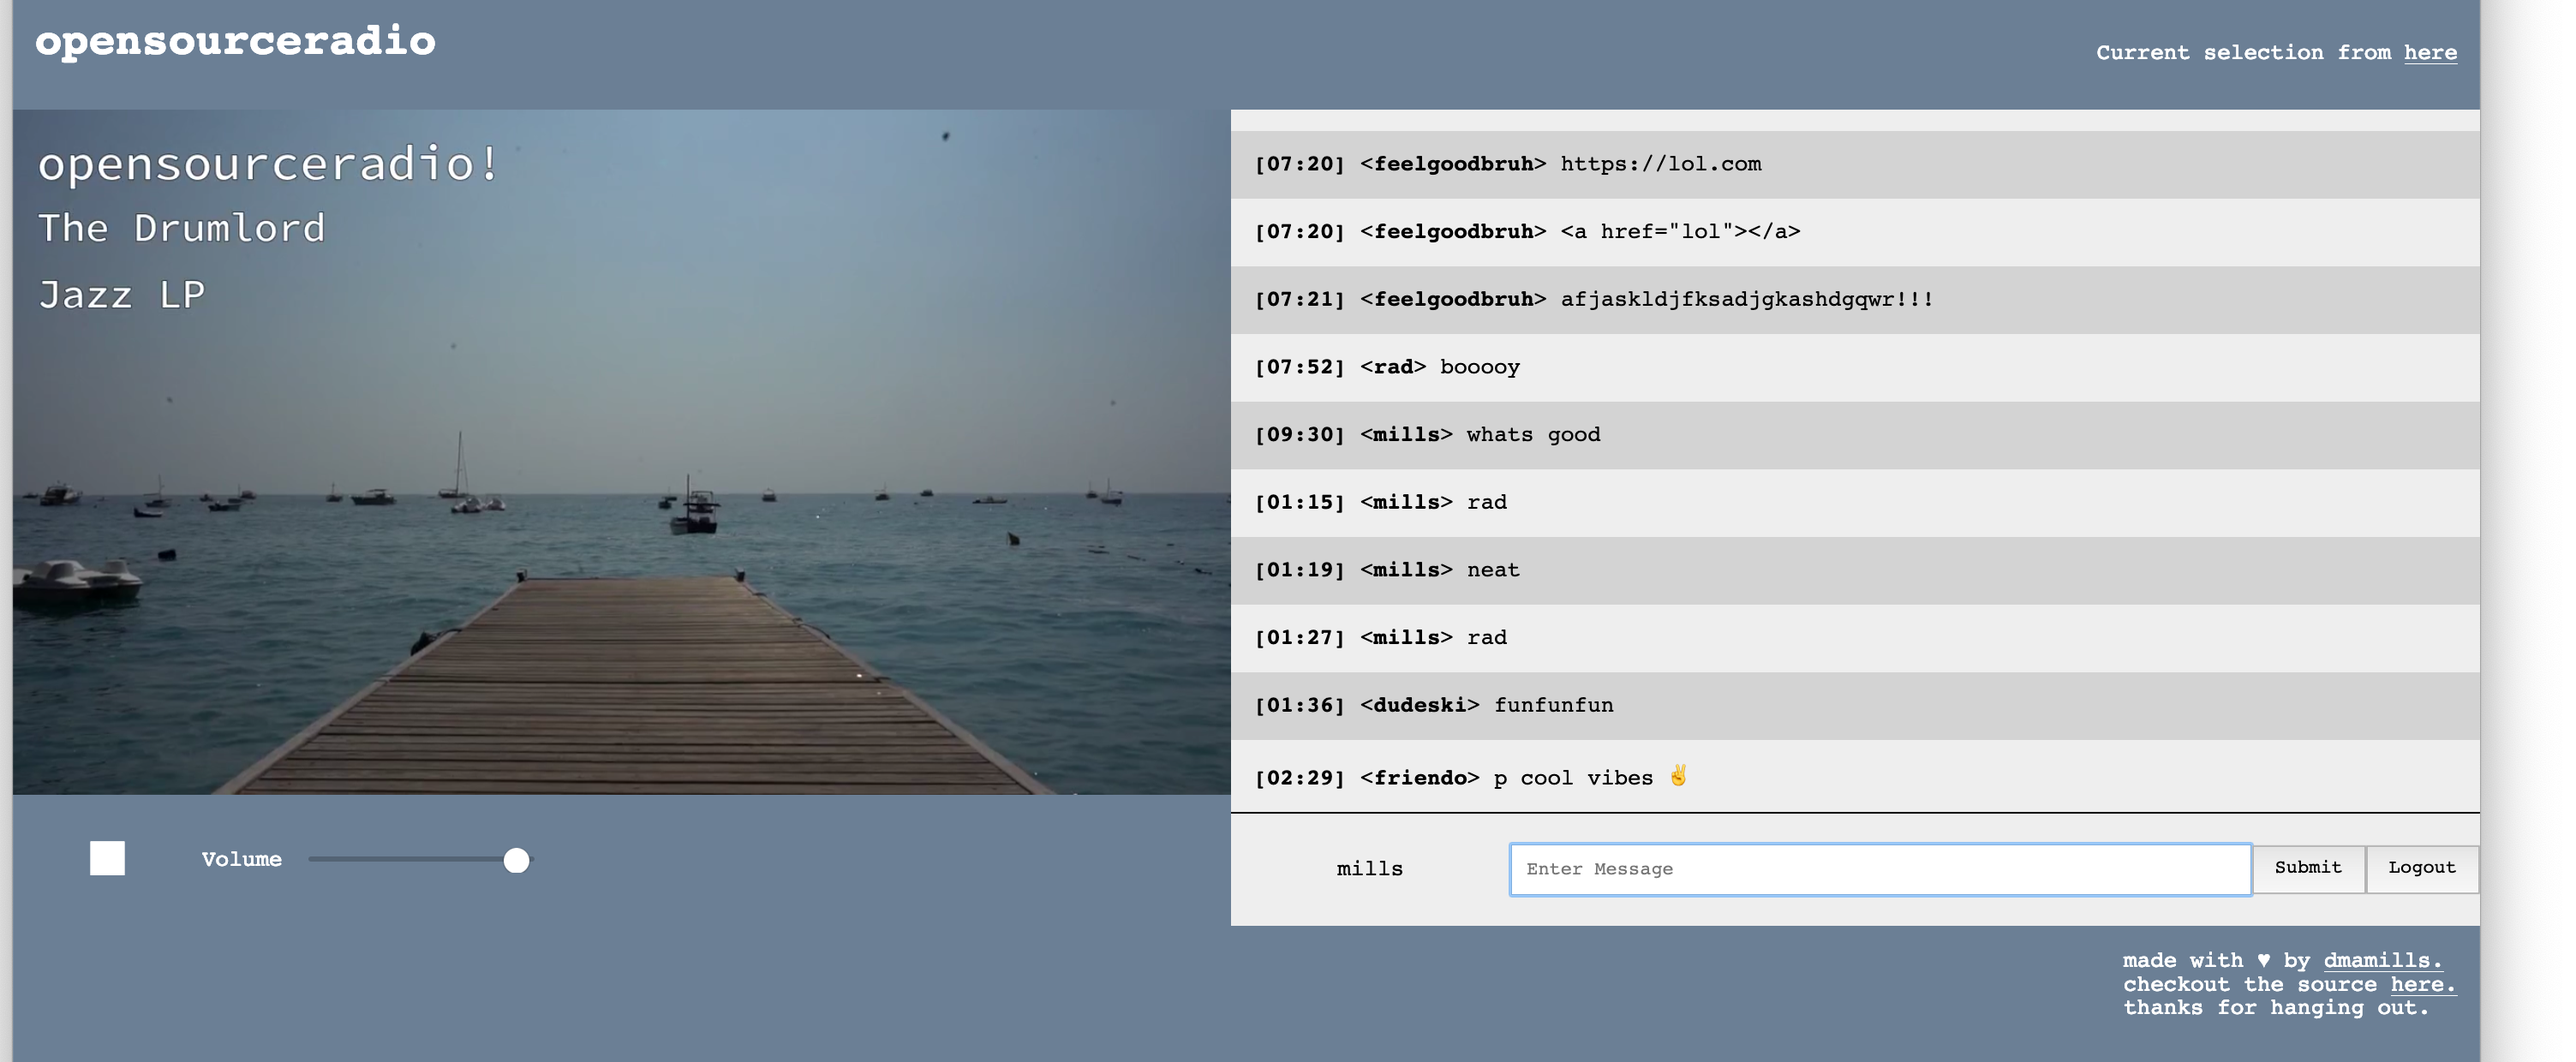
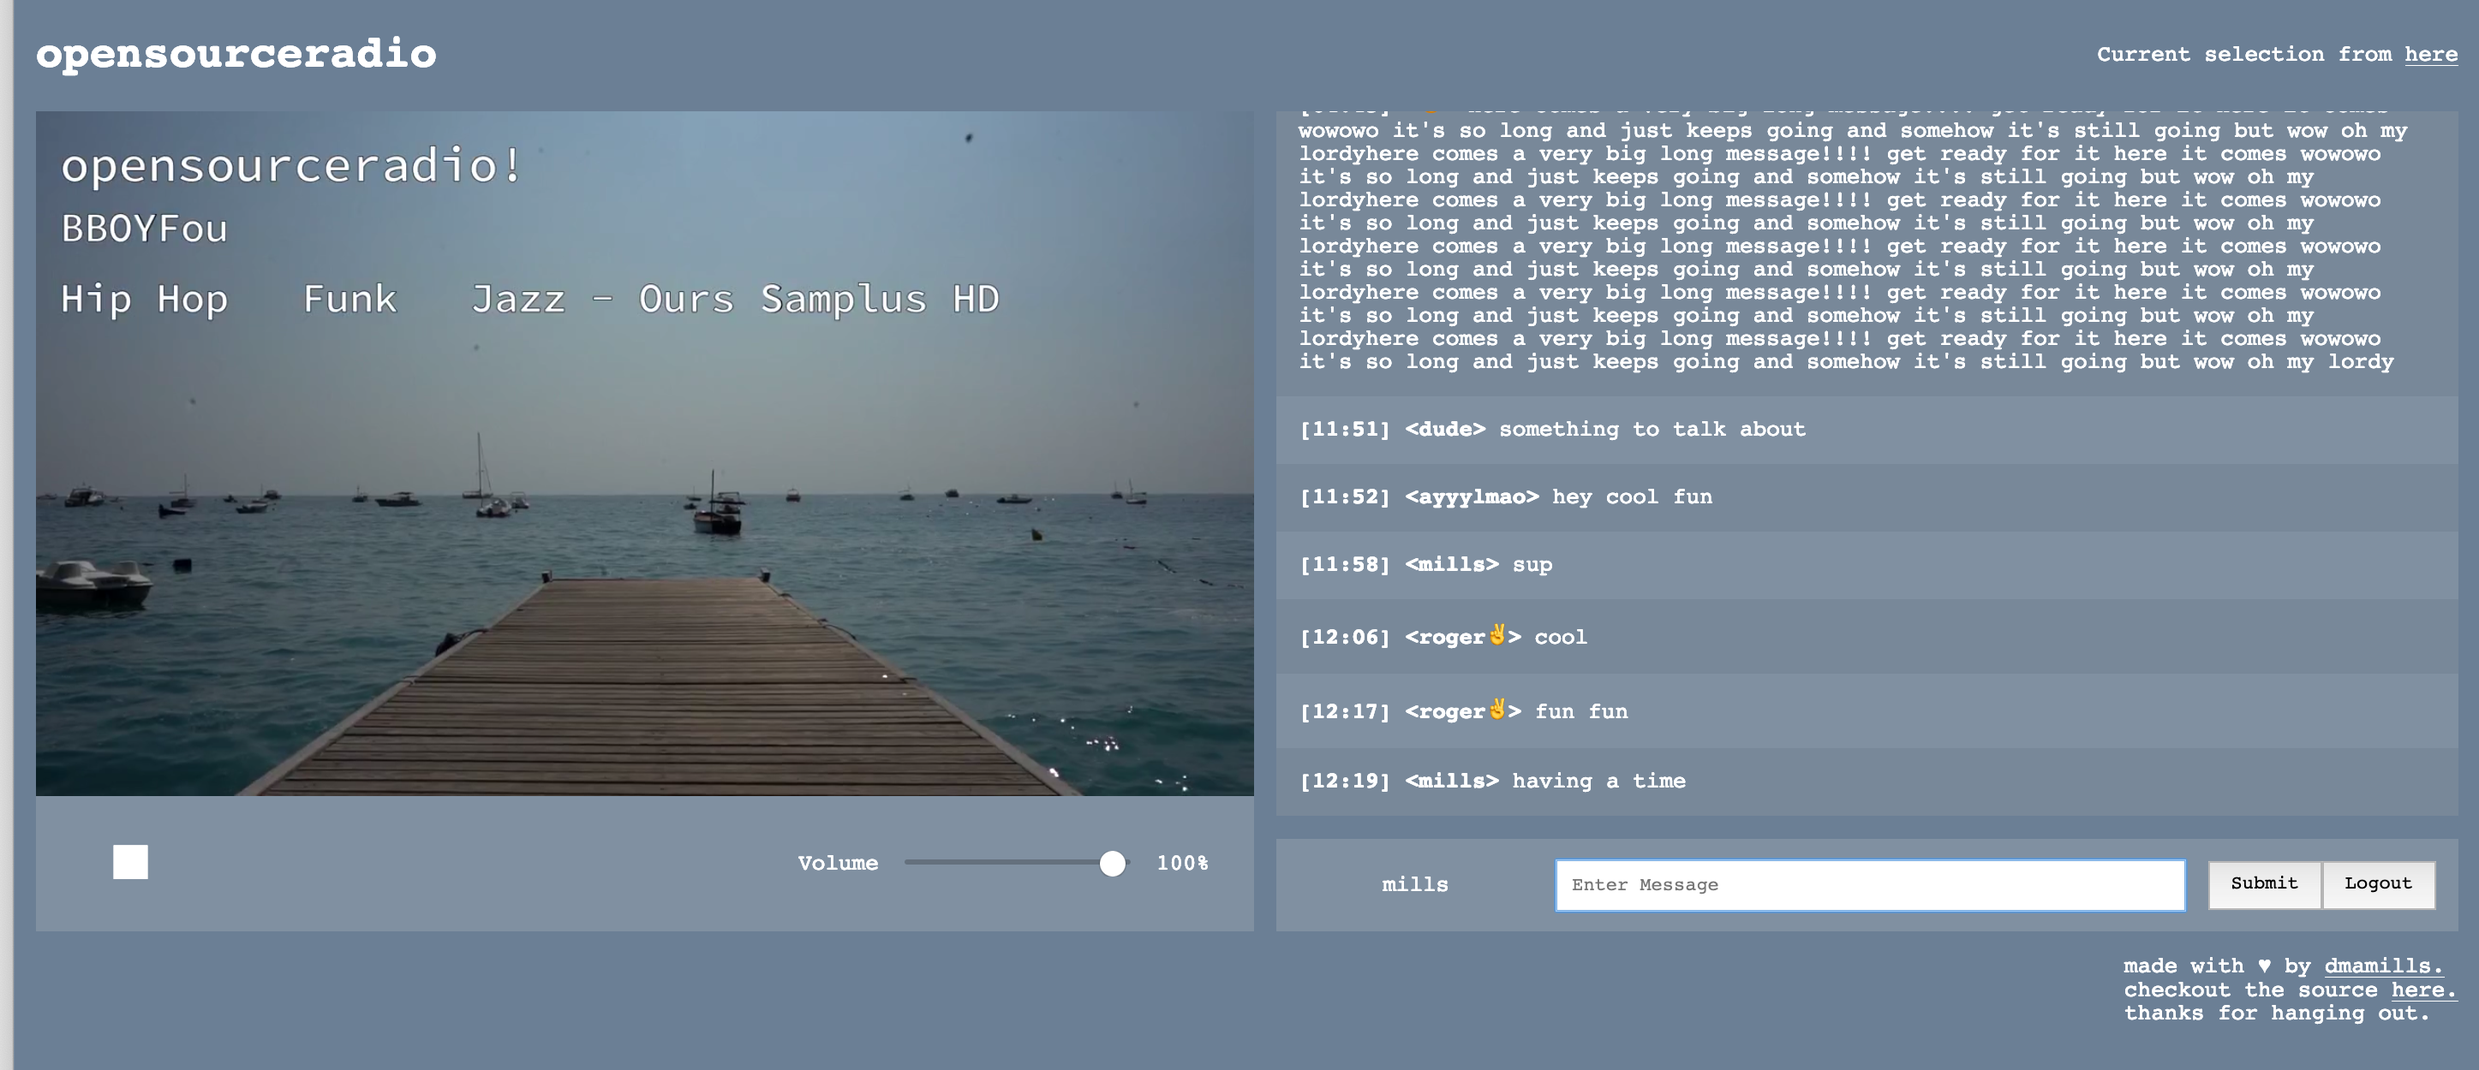
chat styles update

diff --git a/client/src/Chat/ChatInput.js b/client/src/Chat/ChatInput.js
@@ -1,15 +1,13 @@
 import React, { Component } from 'react';
 import stylish from '@dmamills/stylish';
 import cn from 'classnames';
-import { flex, flex2, p05, textCenter } from '../styles';
+import { flex, flex2, p05, textCenter, whiteText, mr1, spaceBetween } from '../styles';
 
 const [ nameField, container ] = stylish({
   width: '150px',
-  backgroundColor: '#eee',
 }, {
-  borderTop: '1px solid black',
   alignItems: 'center',
-  backgroundColor: '#eee'
+  backgroundColor: 'rgba(211,211,211, 0.2)',
 });
 
 class ChatInput extends Component {
@@ -56,19 +54,21 @@ class ChatInput extends Component {
     return (
       <div className={cn(flex, flex2, container)}>
         <span
-          className={cn(p05, textCenter, nameField)}>
+          className={cn(p05, textCenter, nameField, whiteText)}>
           {name || 'Enter Name:'}
         </span>
         <input
           placeholder={name ? 'Enter Message' : 'Enter Name'}
-          className={cn(p05, flex2)}
+          className={cn(p05, flex2, mr1)}
           onKeyUp={this.onKeyUp}
           onChange={this.onChange}
           value={message}
           type="text"
         />
-        <button className={p05} onClick={this.onMessage}>Submit</button>
-        { name && <button className={p05} onClick={this.logout}>Logout</button> }
+        <div className={cn(flex, spaceBetween, mr1)}>
+          <button className={p05} onClick={this.onMessage}>Submit</button>
+          { name && <button className={p05} onClick={this.logout}>Logout</button> }
+        </div>
       </div>
     );
   }

diff --git a/client/src/Chat/index.js b/client/src/Chat/index.js
@@ -5,16 +5,16 @@ import stylish from '@dmamills/stylish';
 
 import ChatInput from './ChatInput';
 import History from './History';
-import { flex, column, listStyleNone, p1, flex2 } from '../styles';
+import { flex, column, listStyleNone, p1, flex2, ph1, whiteText } from '../styles';
 import { getName, setName, SERVER_URL, getHistory } from '../api';
 import { parseTime } from '../utils';
 
 const msgStyles = stylish({
   ':nth-child(odd)': {
-    backgroundColor: '#eee'
+    backgroundColor: 'rgba(211,211,211, 0.2)'
   },
   ":nth-child(even)": {
-    backgroundColor: 'lightGrey'
+    backgroundColor: 'rgba(169,169,169, 0.2)'
   }
 });
 
@@ -80,11 +80,9 @@ class Chat extends Component {
         key={`${name}-${timestamp}`}
       >
         <div>
-          <strong>[{parseTime(timestamp)}]</strong>
-          <span>{` <`}</span>
-          <strong>{name}</strong>
-          <span>{`> `}</span>
-          <span>{message}</span>
+          <strong className={whiteText}>[{parseTime(timestamp)}]</strong>
+          <strong className={whiteText}>{` <${name}> `}</strong>
+          <span className={whiteText}>{message}</span>
         </div>
       </li>
     );
@@ -93,7 +91,7 @@ class Chat extends Component {
   render() {
     const { messages, name } = this.state;
     return (
-      <div className={cn(flex, flex2, column)}>
+      <div className={cn(flex, flex2, column, ph1)}>
         <History
           messages={messages}
           renderMessage={this.renderMessage}

diff --git a/client/src/StreamPlayer/Controls.js b/client/src/StreamPlayer/Controls.js
@@ -2,11 +2,12 @@ import React from 'react';
 import stylish from '@dmamills/stylish';
 import cn from 'classnames';
 import Volume from './Volume';
-import { flex, p1 } from '../styles';
+import { flex, p1, spaceBetween } from '../styles';
 
-const btn = stylish({
+const [btn, container]  = stylish({
   backgroundColor: 'rgba(0,0,0,0)',
   border:'0',
+  minHeight: '40px',
   margin: '0.5rem',
   padding: '0 2rem',
   borderRadius: '0.5rem',
@@ -17,6 +18,8 @@ const btn = stylish({
   ':hover': {
     color: '#C8C8C8'
   }
+}, {
+  backgroundColor: 'rgba(211,211,211, 0.2)'
 });
 
 const Controls = props => {
@@ -26,7 +29,7 @@ const Controls = props => {
    <button className={btn} onClick={onPlay}>▶</button>;
 
   return (
-    <div className={cn(flex, p1)}>
+    <div className={cn(flex, p1, spaceBetween, container)}>
       {button}   
       <Volume onVolumeChange={onVolumeChange} />
     </div>

diff --git a/client/src/styles.js b/client/src/styles.js
@@ -10,6 +10,7 @@ export const [
   justifyEnd,
   flexGrow,
   flex2,
+  alignSelfCenter,
 ] = stylish(
   { display: 'flex' },
   { alignItems: 'center' },
@@ -20,6 +21,7 @@ export const [
   { justifyContent: 'flex-end' },
   { flexGrow: '1' },
   { flex: '2' },
+  { alignSelf: 'center' },
 );
 
 export const [
@@ -54,6 +56,20 @@ export const [
 );
 
 export const [
+  ph0,
+  ph05,
+  ph1,
+  ph2
+] = stylish(
+  { padding: '0 0' },
+  { padding: '0 0.5rem' },
+  { padding: '0 1rem' },
+  { padding: '0 2rem' },
+);
+
+
+
+export const [
   mr0,
   mr05,
   mr1,
@@ -63,6 +79,18 @@ export const [
   { marginRight: '0.5rem' },
   { marginRight: '1rem' },
   { marginRight: '2rem' },
+);
+
+export const [
+  ml0,
+  ml05,
+  ml1,
+  ml2
+] = stylish(
+  { marginLeft: '0' },
+  { marginLeft: '0.5rem' },
+  { marginLeft: '1rem' },
+  { marginLeft: '2rem' },
 );
 
 export const [

diff --git a/client/src/StreamPlayer/Volume.js b/client/src/StreamPlayer/Volume.js
@@ -1,6 +1,6 @@
 import React, { Component } from 'react';
 import cn from 'classnames';
-import { flex, flexGrow, p1, alignItemsCenter, whiteText, mr1 } from '../styles';
+import { flex, p1, alignItemsCenter, whiteText, mr1, ml1 } from '../styles';
 
 class Volume extends Component {
   state = {
@@ -15,8 +15,9 @@ class Volume extends Component {
 
   render() {
     const { volume } = this.state;
+
     return (
-      <div className={cn(flex, flexGrow, p1, alignItemsCenter, whiteText)}>
+      <div className={cn(flex, p1, alignItemsCenter, whiteText)}>
         <label className={mr1} htmlFor="volume">Volume</label>
         <input 
           type="range"
@@ -27,6 +28,7 @@ class Volume extends Component {
           value={volume}
           onChange={this.onChange}
         />
+        <span className={ml1}>{`${volume * 100}%`}</span>
       </div>
     );
   } 

diff --git a/client/src/Header.js b/client/src/Header.js
@@ -1,12 +1,12 @@
 import React from 'react';
 import cn from 'classnames';
 
-import { p1, flex, spaceBetween, m0, whiteText, link } from './styles';
+import { p1, flex, spaceBetween, m0, whiteText, link, alignSelfCenter } from './styles';
 
 const Header = () => {
   return (
     <header className={cn(flex, p1, spaceBetween)}>
-      <h1 className={cn(m0, whiteText)}>opensourceradio</h1>
+      <h1 className={cn(alignSelfCenter, m0, whiteText)}>opensourceradio</h1>
       <div>
         <p className={whiteText}>Current selection from <a className={link} href="https://soundcloud.com/illfsresh/sets/jazz-hop">here</a></p>
       </div>

diff --git a/client/src/StreamPlayer/index.js b/client/src/StreamPlayer/index.js
@@ -3,7 +3,7 @@ import stylish from '@dmamills/stylish';
 import flvjs from 'flv.js';
 import Controls from './Controls';
 import cn from 'classnames';
-import { flex, column } from '../styles';
+import { flex, column, ml1 } from '../styles';
 
 const STREAM_URL = 'http://localhost:8000/live/opensourceradio.flv';
 
@@ -68,7 +68,7 @@ class StreamPlayer extends Component {
 
   render() {
     return (
-      <div className={cn(flex, column)}>
+      <div className={cn(ml1, flex, column)}>
         <video
           ref={this.getVideoReference}
           className={playerContainer}

diff --git a/client/src/Chat/History.js b/client/src/Chat/History.js
@@ -6,7 +6,6 @@ import { m0, p0 } from '../styles';
 const [ chatBox, h0 ] = stylish({
   maxHeight: '425px',
   overflowY: 'scroll',
-  marginBottom: '-15px',
 }, {
   height: '0px'
 });
